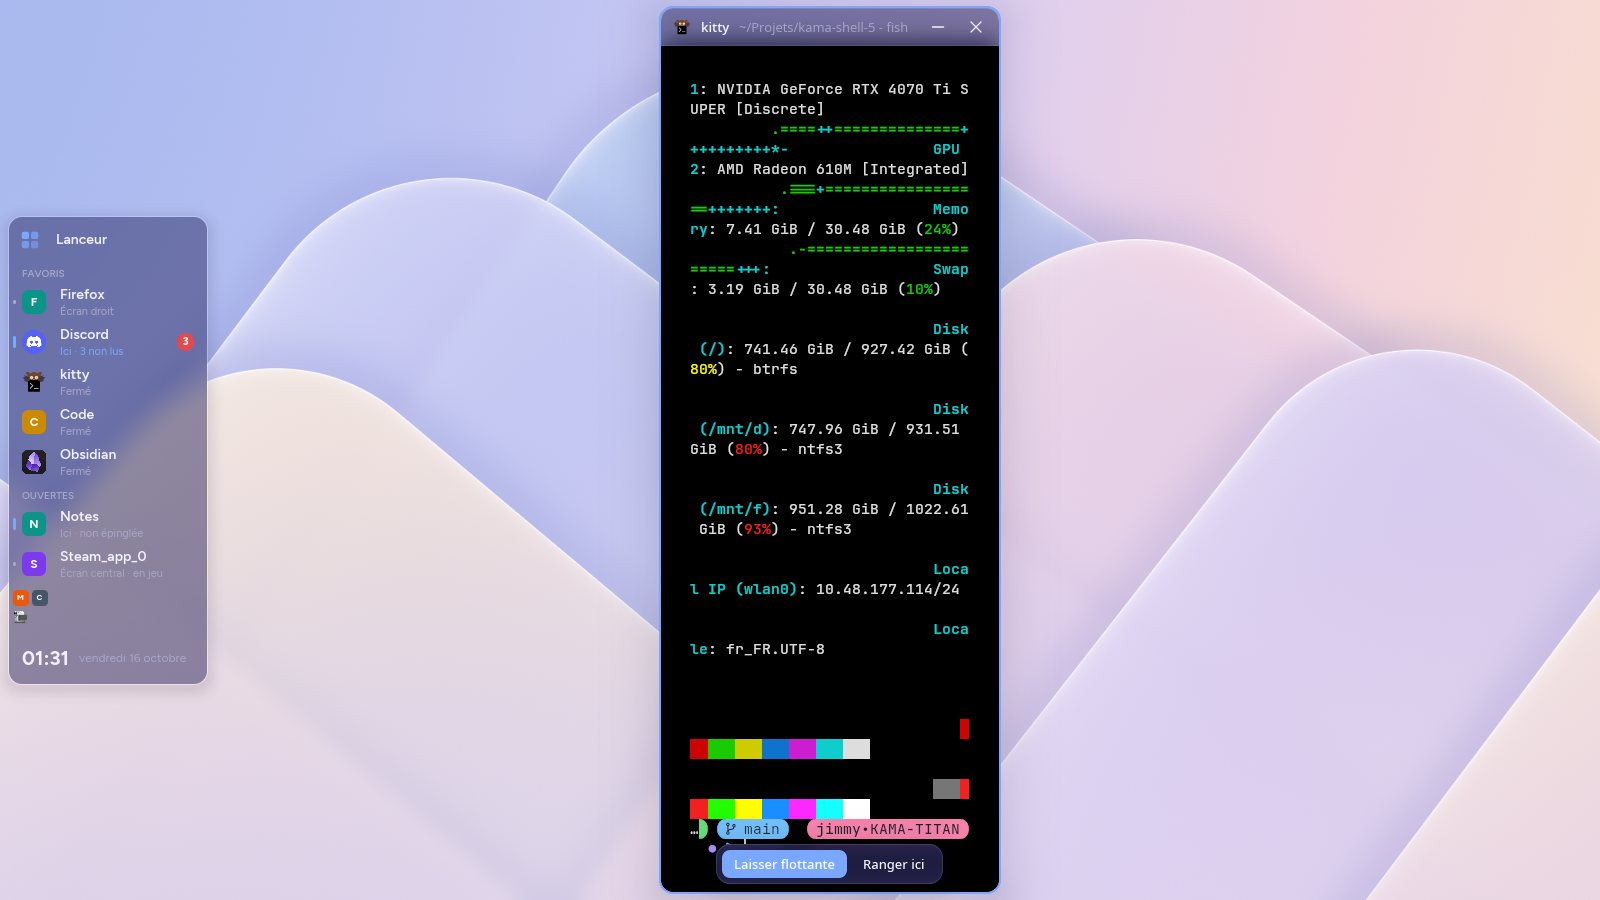
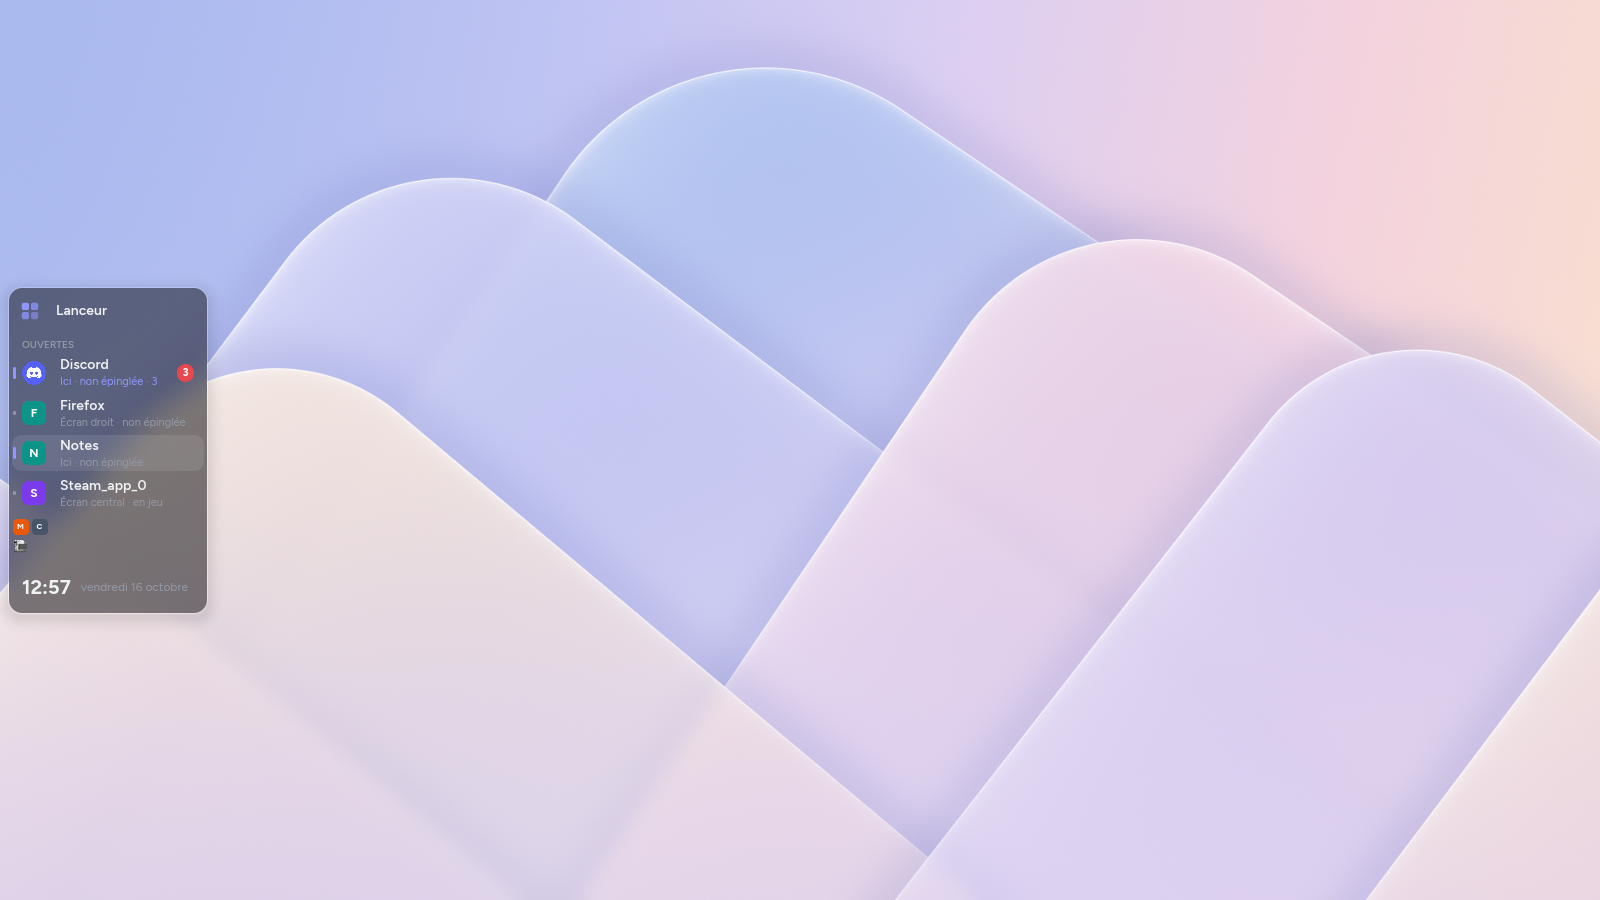
style(theme): adjust dark theme towards neutral charcoal true dark

Changed region(s): [[0.4062, 0.0, 0.625, 1.0], [0.0, 0.2178, 0.1562, 0.7778]]

diff --git a/crates/theme/src/lib.rs b/crates/theme/src/lib.rs
@@ -178,25 +178,25 @@ impl Tokens {
                 }
             }
             ThemeKind::Dark => {
-                let glass = Color::rgba(42, 40, 92, 128);
-                let hover = Color::rgba(255, 255, 255, 26);
+                let glass = Color::rgba(22, 22, 26, 140);
+                let hover = Color::rgba(255, 255, 255, 24);
                 Self {
                     kind,
-                    backdrop: Color::rgb(0x1c_1b_3a),
+                    backdrop: Color::rgb(0x12_12_14),
                     glass,
-                    glass_strong: Color::rgba(36, 34, 78, 209),
-                    rim: Color::rgba(255, 255, 255, 31),
-                    card: Color::rgba(255, 255, 255, 20),
+                    glass_strong: Color::rgba(28, 28, 33, 210),
+                    rim: Color::rgba(255, 255, 255, 28),
+                    card: Color::rgba(255, 255, 255, 18),
                     hover,
-                    separator: Color::rgba(255, 255, 255, 20),
-                    text: Color::rgb(0xf2_f1_fb),
-                    muted: Color::rgb(0xa7_a6_c8),
-                    shadow: Color::rgba(8, 6, 30, 45),
+                    separator: Color::rgba(255, 255, 255, 18),
+                    text: Color::rgb(0xf1_f2_f4),
+                    muted: Color::rgb(0x94_98_a4),
+                    shadow: Color::rgba(0, 0, 0, 45),
                     scrim: Color::rgba(0, 0, 0, 45),
                     accent: Color::rgb(0x8f_97_ff),
                     surface: glass,
                     titlebar: glass,
-                    disabled: Color::rgb(0x4b_52_62),
+                    disabled: Color::rgb(0x50_54_60),
                     button_hover: hover,
                     close_hover: Color::rgb(0xe5_48_4d),
                 }

diff --git a/crates/settings/src/view.rs b/crates/settings/src/view.rs
@@ -344,11 +344,16 @@ fn theme_tile<'a>(
         });
     let dock = container(space().width(6).height(Length::Fill))
         .style(move |_| style::fill(style::alpha(look.muted, 0.45), 3.0));
+    let scene_bg = if look.dark {
+        Color::from_rgb8(0x18, 0x18, 0x1c)
+    } else {
+        style::alpha(look.block, 1.0)
+    };
     let scene = container(row![dock, pane].spacing(6))
         .width(176)
         .height(96)
         .padding(8)
-        .style(move |_| style::fill(style::alpha(look.block, 1.0), 8.0));
+        .style(move |_| style::fill(scene_bg, 8.0));
     let font = if chosen {
         style::SEMIBOLD
     } else {

diff --git a/CLAUDE.md b/CLAUDE.md
@@ -109,7 +109,7 @@ Précisions décidées en phase 3 (à revoir si elles gênent) :
 Les maquettes sont exportées dans `docs/maquettes/` (les ouvrir avant de toucher au rendu). Celles d'origine, dans `docs/maquettes/shell/`, font référence pour les fenêtres, leurs décorations et le rangement ; **plus pour les barres latérales ni pour le lanceur**, abandonnés sous cette forme.
 
 - Style proche de Windows 11 / Fluent : coins arrondis, surfaces translucides en **verre liquide** flouté, sobre.
-- Thèmes **clair** et **sombre** (indigo translucide).
+- Thèmes **clair** et **sombre** (anthracite translucide).
 - Fenêtres : rayon **12 px**, espacement **8 px** entre emplacements et avec les bords.
 - **Règle cardinale de la refonte** : aucune disposition, métrique, taille ou espacement ne change. Seules les matières (surfaces translucides, flou, liserés rim et ombres douces) changent.
 - **Décorations côté serveur** (dessinées par le compositeur, via `xdg-decoration`) :

diff --git a/docs/maquettes/dock.md b/docs/maquettes/dock.md
@@ -152,7 +152,7 @@ Les volumes par appli sont mémorisés dans `~/.local/state/coquille/`.
   fond en `palette.glass_strong` avec liseré `palette.rim`, bloc intérieur en `palette.card`, sortie audio, volume général, une ligne par appli (icône, nom, état, curseur, niveau en direct en vert,
   bouton couper le son rouge quand coupé), note sur la mémorisation des volumes.
 
-Thèmes clair et sombre (indigo translucide), accent depuis la config (pervenche par défaut), textes en français, police Figtree (repli sans-serif).
+Thèmes clair et sombre (anthracite translucide), accent depuis la config (pervenche par défaut), textes en français, police Figtree (repli sans-serif).
 
 ## Comportement
 
